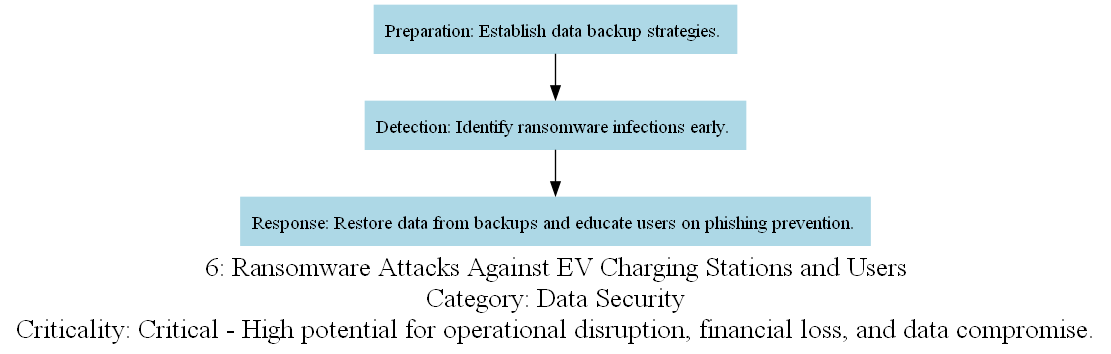
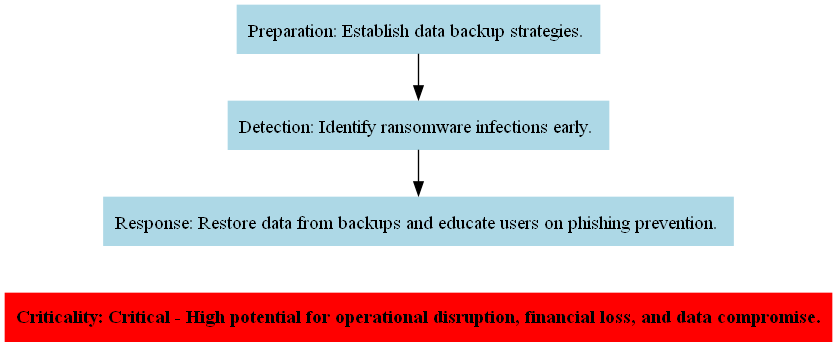
criticality color added

diff --git a/incident_diagram_visualizer.py b/incident_diagram_visualizer.py
@@ -1,5 +1,5 @@
 from graphviz import Digraph
-from PIL import Image, ImageTk
+from PIL import Image, ImageTk, ImageDraw, ImageFont
 import tkinter as tk
 
 class IncidentDiagramVisualizer:
@@ -9,10 +9,15 @@ class IncidentDiagramVisualizer:
     def generate_diagram(self, incident_title, steps, category, criticality, criticality_description):
         dot = Digraph(comment=incident_title)
         dot.attr('node', shape='box', style='filled', color='lightblue')
-        dot.attr('graph',
-                 label=f"{incident_title}\\nCategory: {category}\\nCriticality: {criticality} - {criticality_description}",
-                 fontsize='20')
 
+        criticality_colors = {
+            "Low": "green",
+            "Medium": "yellow",
+            "High": "orange",
+            "Critical": "red"
+        }
+
+        criticality_color = criticality_colors.get(criticality, "black")
         phases = steps.split('\n')
         for phase in phases:
             if ': ' in phase:
@@ -27,12 +32,45 @@ class IncidentDiagramVisualizer:
                     dot.edge(previous_phase, current_phase)
                 previous_phase = current_phase
 
+        criticality_label = f"<<b>Criticality: {criticality} - {criticality_description}</b>>"
+        dot.node('Criticality', label=criticality_label, fontcolor="black", color=criticality_color, style='filled')
+
+        dot.attr(rankdir='TB')
+
+        with dot.subgraph() as s:
+            s.attr(rank='sink')
+            s.node('Criticality')
+
         dot.render('diagram', format='png', cleanup=True)
+
+        self.add_title_and_category(incident_title, category)
+
+    def add_title_and_category(self, incident_title, category):
+        img = Image.open('diagram.png')
+
+        draw = ImageDraw.Draw(img)
+        font_path = "arialbd.ttf"
+        font = ImageFont.truetype(font_path, 16)
+
+        title_text = f"{incident_title}\nCategory: {category}"
+        text_width, text_height = draw.textsize(title_text, font=font)
+
+        img_width, img_height = img.size
+        x_position = (img_width - text_width) // 2
+
+        new_img_height = img_height + text_height + 40
+        new_img = Image.new('RGB', (img_width, new_img_height), (255, 255, 255))
+        new_img.paste(img, (0, text_height + 40))
+
+        draw = ImageDraw.Draw(new_img)
+        draw.text((x_position, 10), title_text, font=font, fill="black")
+
+        new_img.save('diagram_with_title.png')
 
     def display_diagram(self):
         new_window = tk.Toplevel(self.parent)
         new_window.title("Incident Steps Diagram")
-        img = Image.open('diagram.png')
+        img = Image.open('diagram_with_title.png')
         photo = ImageTk.PhotoImage(img)
 
         image_label = tk.Label(new_window, image=photo)
@@ -40,3 +78,4 @@ class IncidentDiagramVisualizer:
         image_label.pack()
 
         new_window.geometry(f"{img.width}x{img.height}")
+
